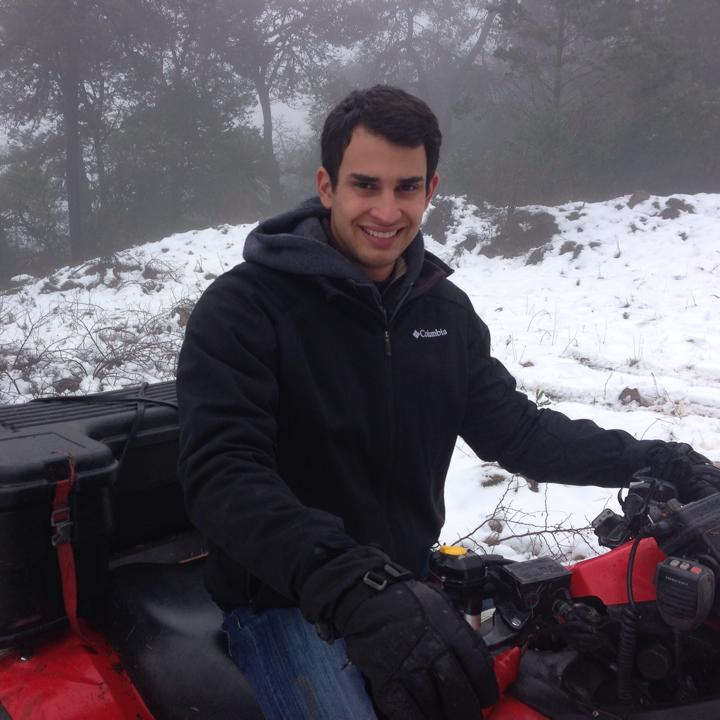
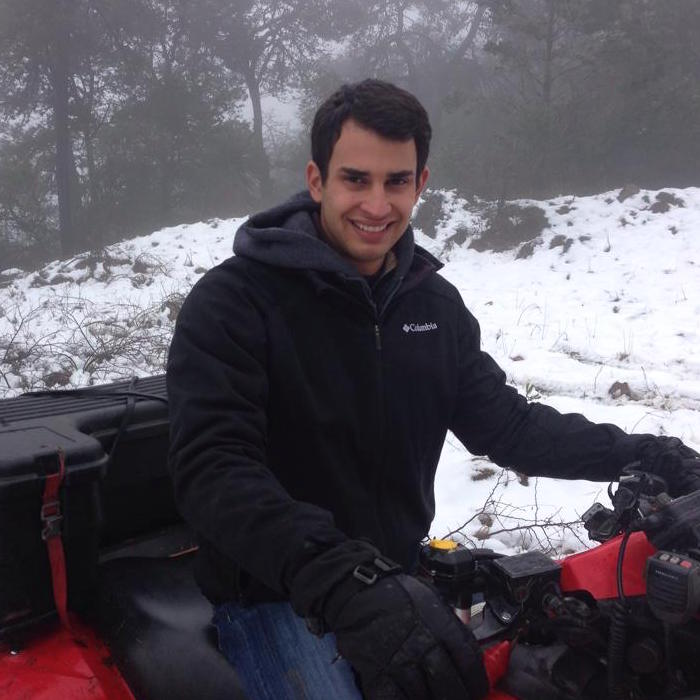
Fixed up about page and headers. Changed the css a little.

diff --git a/app/templates/about.html b/app/templates/about.html
@@ -2,7 +2,7 @@
 <html xmlns="http://www.w3.org/1999/xhtml">
 <head>
 <meta http-equiv="Content-Type" content="text/html; charset=UTF-8" />
-<title>Piccolo Theme</title>
+<title>Fun Runs 2015: About</title>
 <meta name="viewport" content="width=device-width, initial-scale=1.0">
 
 <!-- CSS
@@ -47,7 +47,7 @@
 </head>
 
 <body>
-	<div class="color-bar-1"></div>
+    <div class="color-bar-1"></div>
     <div class="color-bar-2 color-bg"></div>
     
     <div class="container main-container">
@@ -57,8 +57,8 @@
         <!-- Logo
         ================================================== -->
         <div class="span5 logo">
-          <a href="/"><img src="{{ url_for('static', filename='img/piccolo-logo.png') }}"/></a>
-            <h5>Fun Run Events</h5>
+<!--           <a href="/"><img src="{{ url_for('static', filename='img/piccolo-logo.png') }}"/></a> -->
+            <h1>Fun Runs 2015: About</h1>
         </div>
         
         <!-- Main Navigation
@@ -103,41 +103,56 @@
     <!-- Title Header -->
     <div class="row">
         <div class="span12">
-            <h2>The Austin Isms</h2>
+            <h2>_(┐「ε:)_</h2>
             <p class="lead">A group of students from the University of Texas, Austin, conquering the world, one Software Engineering Project at a time.<br/>
                 <blockquote>Yes - I have already put in my Presidential bid</blockquote> <cite> -Kurt Bixby</cite></p>
 
-            <h3 class="title-bg"> Meet our team!</h3>
+            <h3 class="title-bg"> _(┐「ε:)_ &nbsp Meet our team! &nbsp _(┐「ε:)_</h3>
             <div class="row">
                 <div class="span4">
-                    <img src="{{ url_for('static', filename='img/teamMemberPics/Kurt.jpg') }}" alt="image">
+                    <div class="resize">
+                        <img src="{{ url_for('static', filename='img/teamMemberPics/Alyssa.jpg') }}" alt="image">
+                    </div>
                     <h5>Alyssa Williams</h5>
-                    <p>RAWR</p>
+                    <p>
+                        <i class="icon-calendar"></i><strong>Birthday:</strong> April 27, 1993<br/>
+                        <i class="icon-heart"></i><strong>Birthday:</strong> April 27, 1993<br/>
+                    </p>
                 </div>
                 <div class="span4">
-                    <img src="{{ url_for('static', filename='img/teamMemberPics/Kurt.jpg') }}" alt="image">
+                    <div class="resize">
+                        <img src="{{ url_for('static', filename='img/teamMemberPics/Kurt.jpg') }}" alt="image">
+                    </div>
                     <h5>Kurt Bixby</h5>
                     <p>Sassy McKurteous Bixbeous</p>
                 </div>
                 <div class="span4">
-                    <img src="{{ url_for('static', filename='img/teamMemberPics/Kevin.jpg') }}" alt="image">
+                    <div class="resize">
+                        <img src="{{ url_for('static', filename='img/teamMemberPics/Kevin.jpg') }}" alt="image">
+                    </div>
                     <h5>Kevin Byers</h5>
                     <p>Kevin Hello-ers</p>
                 </div>
             </div>
             <div class="row">
                 <div class="span4">
-                    <img src="{{ url_for('static', filename='img/teamMemberPics/David.jpg') }}" alt="image">
+                    <div class="resize">
+                        <img src="{{ url_for('static', filename='img/teamMemberPics/David.jpg') }}" alt="image">
+                    </div>
                     <h5>David Aguirre</h5>
                     <p>He doesn't actually know how to drive that</p>
                 </div>
                 <div class="span4">
-                    <img src="{{ url_for('static', filename='img/teamMemberPics/Kurt.jpg') }}" alt="image">
+                    <div class="resize">
+                        <img src="{{ url_for('static', filename='img/teamMemberPics/Edgar.jpg') }}" alt="image">
+                    </div>
                     <h5>Edgar Treto</h5>
-                    <p>Stuff about Edgar.</p>
+                    <p>_(┐「ε:)_</p>
                 </div>
                 <div class="span4">
-                    <img src="{{ url_for('static', filename='img/teamMemberPics/Kurt.jpg') }}" alt="image">
+                    <div class="resize">
+                        <img src="{{ url_for('static', filename='img/teamMemberPics/Kurt.jpg') }}" alt="image">
+                    </div>
                     <h5>Hector Garcia</h5>
                     <p>Stuff about Hector.</p>
                 </div>
@@ -151,7 +166,7 @@
     <!-- Footer Area
         ================================================== -->
 
-	<div class="footer-container"><!-- Begin Footer -->
+    <div class="footer-container"><!-- Begin Footer -->
       <div class="container">
           <div class="row footer-row">
                 <div class="span3 footer-col">

diff --git a/app/templates/funruntempl.html b/app/templates/funruntempl.html
@@ -1,8 +1,8 @@
 <!DOCTYPE html>
-<html xmlns="http://www.w3.org/1999/xhtml">
+<html xmlns="http://www.w3.org/1999/xhtml" ng-app="FunRunModule" ng-controller="FunRunGetter">
 <head>
 <meta http-equiv="Content-Type" content="text/html; charset=UTF-8" />
-<title>Piccolo Theme</title>
+<title>Fun Runs 2015: [[run.name]]</title>
 <meta name="viewport" content="width=device-width, initial-scale=1.0">
 
 <!-- CSS
@@ -93,7 +93,7 @@ $(document).ready(function () {
 </div> -->
 
 
-<body ng-app="FunRunModule" ng-controller="FunRunGetter">
+<body>
   <div class="color-bar-1"></div>
     <div class="color-bar-2 color-bg"></div>
     
@@ -104,7 +104,7 @@ $(document).ready(function () {
         <!-- Logo
         ================================================== -->
         <div class="span5 logo">
-          <a href="/"><img src="{{ url_for('static', filename='img/piccolo-logo.png') }}" alt="" /></a>
+<!--           <a href="/"><img src="{{ url_for('static', filename='img/piccolo-logo.png') }}" alt="" /></a> -->
             <h5>Fun Run Event: [[run.name]]</h5>
         </div>
         

diff --git a/app/templates/funruns.html b/app/templates/funruns.html
@@ -60,8 +60,8 @@
         <!-- Logo
         ================================================== -->
         <div class="span5 logo">
-          <a href="/"><img src="{{ url_for('static', filename='img/piccolo-logo.png') }}"/></a>
-            <h5>Fun Run Events</h5>
+          <!-- <a href="/"><img src="{{ url_for('static', filename='img/piccolo-logo.png') }}"/></a> -->
+            <h1>Fun Runs 2015: Events</h1>
         </div>
         
         <!-- Main Navigation
@@ -118,10 +118,6 @@
 
             <div class="row clearfix">
                 <ul class="gallery-post-grid holder">
-                    <div for-each="run in funruns">
-                        [[run.name]]
-                    </div>
-
                     <!-- Gallery Item 1 -->
                     <li  class="span4 gallery-item" data-id="id-1" data-type="illustration">
                       <a href="/funruns/0">

diff --git a/app/templates/challenges.html b/app/templates/challenges.html
@@ -2,7 +2,7 @@
 <html xmlns="http://www.w3.org/1999/xhtml">
 <head>
 <meta http-equiv="Content-Type" content="text/html; charset=UTF-8" />
-<title>Fun Runs 2015: Fun Runs</title>
+<title>Fun Runs 2015: Challenges</title>
 <meta name="viewport" content="width=device-width, initial-scale=1.0">
 
 <!-- CSS
@@ -48,8 +48,8 @@
         <!-- Logo
         ================================================== -->
         <div class="span5 logo">
-          <a href="/"><img src="{{ url_for('static', filename='img/piccolo-logo.png') }}"/></a>
-            <h5>Fun Run Challenges</h5>
+          <!-- <a href="/"><img src="{{ url_for('static', filename='img/piccolo-logo.png') }}"/></a> -->
+            <h1>Fun Runs 2015: Challenges</h1>
         </div>
         
         <!-- Main Navigation

diff --git a/app/templates/locations.html b/app/templates/locations.html
@@ -2,7 +2,7 @@
 <html xmlns="http://www.w3.org/1999/xhtml">
 <head>
 <meta http-equiv="Content-Type" content="text/html; charset=UTF-8" />
-<title>Fun Runs 2015: Fun Runs</title>
+<title>Fun Runs 2015: Locations</title>
 <meta name="viewport" content="width=device-width, initial-scale=1.0">
 
 <!-- CSS
@@ -48,8 +48,8 @@
         <!-- Logo
         ================================================== -->
         <div class="span5 logo">
-          <a href="/"><img src="{{ url_for('static', filename='img/piccolo-logo.png') }}"/></a>
-            <h5>Fun Run Locations</h5>
+          <!-- <a href="/"><img src="{{ url_for('static', filename='img/piccolo-logo.png') }}"/></a> -->
+            <h1>Fun Runs 2015: Locations</h1>
         </div>
         
         <!-- Main Navigation

diff --git a/app/templates/index.html b/app/templates/index.html
@@ -2,7 +2,7 @@
 <html xmlns="http://www.w3.org/1999/xhtml">
 <head>
 <meta http-equiv="Content-Type" content="text/html; charset=UTF-8" />
-<title>Fun Runs 2015</title>
+<title>Fun Runs 2015: Home</title>
 <meta name="viewport" content="width=device-width, initial-scale=1.0"> 
 
 <!-- CSS
@@ -82,8 +82,8 @@ $(document).ready(function () {
       <!-- Logo
       ================================================== -->
       <div class="span5 logo">
-        <a href="/"><img src="{{ url_for('static', filename='img/piccolo-logo.png') }}"/></a>
-          <h5><-- Need to replace</h5>
+<!--         <a href="/"><img src="{{ url_for('static', filename='img/piccolo-logo.png') }}"/></a> -->
+          <h1>Fun Runs 2015: Home</h1>
       </div>
       
       <!-- Main Navigation

diff --git a/app/templates/themes.html b/app/templates/themes.html
@@ -2,7 +2,7 @@
 <html xmlns="http://www.w3.org/1999/xhtml">
 <head>
 <meta http-equiv="Content-Type" content="text/html; charset=UTF-8" />
-<title>Fun Runs 2015: Fun Runs</title>
+<title>Fun Runs 2015: Themes</title>
 <meta name="viewport" content="width=device-width, initial-scale=1.0">
 
 <!-- CSS
@@ -48,8 +48,8 @@
         <!-- Logo
         ================================================== -->
         <div class="span5 logo">
-          <a href="/"><img src="{{ url_for('static', filename='img/piccolo-logo.png') }}"/></a>
-            <h5>Fun Run Themes</h5>
+          <!-- <a href="/"><img src="{{ url_for('static', filename='img/piccolo-logo.png') }}"/></a> -->
+            <h1>Fun Runs 2015: Themes</h1>
         </div>
         
         <!-- Main Navigation

diff --git a/app/static/css/custom-styles.css b/app/static/css/custom-styles.css
@@ -1,3 +1,14 @@
+/******* Added by Alyssa *******/
+
+.resize {
+	overflow: hidden;
+}
+
+.resize img {
+	width: 100%;
+}
+/*******************************/
+
 html, body {
 	font-size:12px; 
 	line-height:18px;
